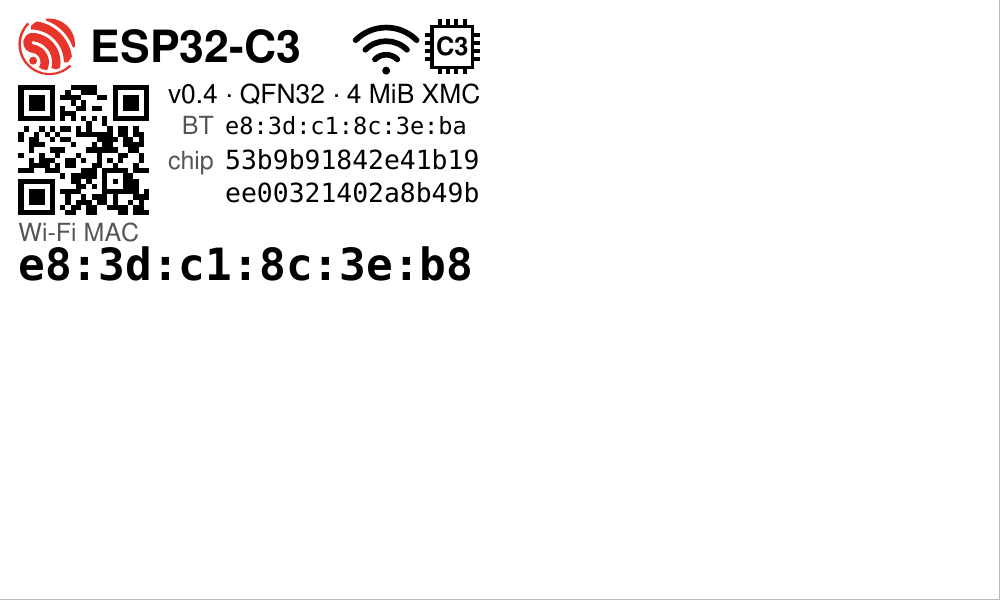
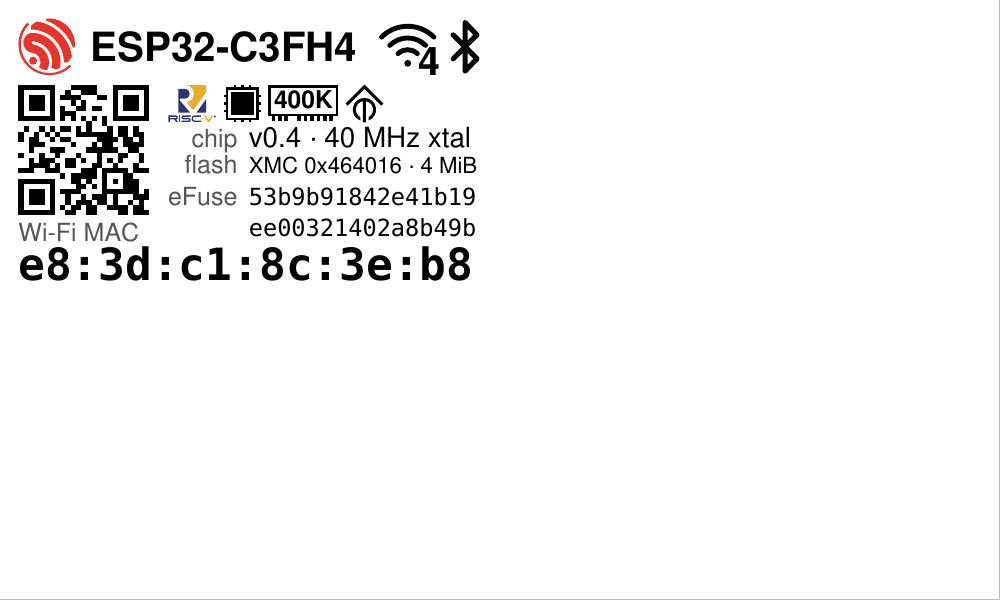
docs: the ESP32 labels' layout, real stickers and a sheet of samples
The real stickers are re-rendered from tests/esp32_devices.json, which
a fresh read of all five boards on 2026-09-27 reproduces label for
label. esp32-parts.png is one label per part in the table, synthetic
(02:... MACs, revision v9.9) under a banner that says so.

Claude-Session: https://claude.ai/code/session_01PBYpeR32kHxmN65GqkGhJx

Changed region(s): [[0.093, 0.03, 0.496, 0.39]]

diff --git a/docs/examples/render_esp32.py b/docs/examples/render_esp32.py
@@ -1,13 +1,20 @@
 #!/usr/bin/env python3
-"""Regenerate the ESP32 micro-label examples from real reads.
+"""Regenerate the ESP32 micro-label examples.
 
     uv run docs/examples/render_esp32.py
 
-The records are tests/esp32_devices.json: what `rpi-hwid collect
---esp32-read` wrote on 2026-09-26 for the three ESP32-C3 SuperMinis on
-rpi5-433mhz and the ESP32-CAM and devkit on rpi4-esp. Five labels make two
-stickers, four and one; each is cut out of the rendered sheet by the label
-grid at 400 dpi, as render_micro.py does. Needs pdftoppm (poppler-utils).
+Two sets, both cut out of the sheet `rpi-hwid labels` prints, by the label
+grid (needs pdftoppm, from poppler-utils):
+
+  esp32-sticker-1.png, -2.png  the real boards, from tests/esp32_devices.json:
+                               what `rpi-hwid collect --esp32-read` wrote for
+                               the three ESP32-C3 SuperMinis on rpi5-433mhz
+                               and the ESP32-CAM and devkit on rpi4-esp.
+                               Five labels make two stickers, four and one.
+  esp32-parts.png              one SAMPLE label for every part in
+                               rpi_hwid.espressif's table, with synthetic
+                               data (locally administered 02:... MACs,
+                               revision v9.9), under a banner saying so.
 """
 
 from __future__ import annotations
@@ -18,44 +25,74 @@ import sys
 import tempfile
 from pathlib import Path
 
-from PIL import Image
+from PIL import Image, ImageDraw, ImageFont
 
 HERE = Path(__file__).resolve().parent
 sys.path.insert(0, str(HERE.parent.parent / "tests"))
 
 import conftest  # noqa: E402
-from rpi_hwid import esp32_micro, labels, micro  # noqa: E402
+from rpi_hwid import esp32_micro, espressif, labels, micro  # noqa: E402
 from rpi_hwid.model import ProbeDocument  # noqa: E402
 
-DPI = 400
-PX = DPI / 72.0
+
+def page_png(ls: list[micro.MicroLabel], dpi: int, tmp: str) -> Image.Image:
+    pdf = Path(tmp) / "sheet.pdf"
+    micro.render_micro(ls, pdf, outline=True)
+    subprocess.run(["pdftoppm", "-r", str(dpi), "-png", "-f", "1", "-l", "1", str(pdf),
+                    tmp + "/page"], check=True)
+    (png,) = sorted(Path(tmp).glob("page*.png"))
+    return Image.open(png)
 
 
-def main() -> None:
-    real = json.loads((HERE.parent.parent / "tests" / "esp32_devices.json").read_text())
+def sticker_box(i: int, page: Image.Image, px: float) -> tuple[int, int, int, int]:
+    x, y = labels.label_origin(i)
+    left = round(x * px)
+    top = round(page.height - y * px - labels.LABEL_H * px)
+    return left, top, left + round(labels.LABEL_W * px), top + round(labels.LABEL_H * px)
+
+
+def real() -> None:
+    dpi = 400
+    data = json.loads((HERE.parent.parent / "tests" / "esp32_devices.json").read_text())
     docs = {}
-    for host, devices in real.items():
+    for host, devices in data.items():
         raw = json.loads(json.dumps(conftest.RAW["rpi5-netv2"]))
         raw["verdict"]["esp32"] = devices
         docs[host] = ProbeDocument.from_dict(host, raw)
     ls = esp32_micro.micro_labels(docs)
-    pdf = HERE / "esp32.pdf"
-    micro.render_micro(ls, pdf, outline=True)
-    box_w, box_h = round(labels.LABEL_W * PX), round(labels.LABEL_H * PX)
     with tempfile.TemporaryDirectory(dir=HERE) as tmp:
-        subprocess.run(["pdftoppm", "-r", str(DPI), "-png", "-f", "1", "-l", "1", str(pdf),
-                        tmp + "/page"], check=True)
-        (png,) = sorted(Path(tmp).glob("page*.png"))
-        page = Image.open(png)
+        page = page_png(ls, dpi, tmp)
         for i in range(len(micro.pack(ls))):
-            x, y = labels.label_origin(i)
-            left = round(x * PX)
-            top = round(page.height - y * PX - labels.LABEL_H * PX)
             name = f"esp32-sticker-{i + 1}.png"
-            page.crop((left, top, left + box_w, top + box_h)).save(HERE / name)
-            print(f"{name}, {box_w} x {box_h}")
-    pdf.unlink()
+            crop = page.crop(sticker_box(i, page, dpi / 72.0))
+            crop.save(HERE / name)
+            print(f"{name}, {crop.width} x {crop.height}")
+
+
+def parts() -> None:
+    dpi = 300
+    ls = [esp32_micro.sample_label(p, i + 1) for i, p in enumerate(espressif.PARTS)]
+    stickers = len(micro.pack(ls))
+    with tempfile.TemporaryDirectory(dir=HERE) as tmp:
+        page = page_png(ls, dpi, tmp)
+    px = dpi / 72.0
+    first, last = sticker_box(0, page, px), sticker_box(stickers - 1, page, px)
+    right = sticker_box(min(stickers, labels.COLS) - 1, page, px)[2]
+    sheet = page.crop((first[0], first[1], right, last[3]))
+    banner = 90
+    out = Image.new("RGB", (sheet.width, sheet.height + banner), "white")
+    out.paste(sheet, (0, banner))
+    draw = ImageDraw.Draw(out)
+    try:
+        font = ImageFont.truetype("DejaVuSans-Bold.ttf", 32)
+    except OSError:
+        font = ImageFont.load_default()
+    draw.text((20, 22), f"SAMPLE LABELS: synthetic data, one per part in "
+                        f"rpi_hwid.espressif ({len(ls)})", fill="black", font=font)
+    out.save(HERE / "esp32-parts.png", optimize=True)
+    print(f"esp32-parts.png, {out.width} x {out.height}, {len(ls)} labels")
 
 
 if __name__ == "__main__":
-    main()
+    real()
+    parts()

diff --git a/docs/LABELS.md b/docs/LABELS.md
@@ -316,8 +316,26 @@ there at 4 pt or more is refused when the label is made, rather than
 shrunk. The
 primary identifier is a QR on the left and, again, the largest thing on the
 label, in monospace along the whole foot. Beside the QR are a subtitle and up
-to three captioned rows, and under the rows is room for a section the caller
-draws itself.
+to four captioned rows (the last runs down beside the foot's caption, whose
+line is otherwise empty there), and under the rows is room for a section the
+caller draws itself.
+
+In place of the subtitle a label may carry a **spec strip**: a row of glyphs
+heading the band beside the QR, for what the device *is* rather than which
+one it is. The strip's glyphs are registered like the header's:
+
+| glyph | draws |
+|---|---|
+| `Icon("riscv")` | the RISC-V logo, RISC-V International's own file |
+| `Icon("xtensa")` | "Xtensa" set as a wordmark (Cadence publishes no logo for it) |
+| `Icon("cores", "2+1")` | a die with a filled square per core, and a small one for a low-power core |
+| `Icon("memory", "512K+8M")` | a memory module with its size lettered on it |
+| `Icon("tasmota")` | the Tasmota symbol, from the Tasmota repository |
+| `Icon("bluetooth")` | the Bluetooth rune |
+| `Icon("mesh")` | four linked nodes: an IEEE 802.15.4 (Thread, Zigbee) radio |
+| `Icon("wifi", "6")` | the Wi-Fi arcs with the generation in the corner they leave |
+
+A strip too wide for the band is refused when the label is made.
 
 The same rules apply as on every other label. A micro label with no
 identifier raises when it is constructed, naming the host (and the command
@@ -349,38 +367,67 @@ render_micro([MicroLabel(
 ## ESP32s
 
 Each ESP32 that `rpi-hwid esp32 --read` has read gets a micro label (`--only
-esp32`), laid out like this:
+esp32`), and so does an ESP8266EX or ESP8285, the chip in most Tasmota
+plugs, which esptool reads the same way. Every label has the same parts in
+the same places:
 
-- **Header:** the Espressif mark and the chip as the title, with the Wi-Fi arcs
-  and a chip glyph lettered with the family (`C3`, or `32` for an original ESP32).
-- **Subtitle:** the silicon revision and package, then the in-package flash or
-  the crystal.
-- **Foot and QR:** the base MAC, burned into eFuse, which is also the Wi-Fi
-  station MAC.
-- **BT row:** the Bluetooth MAC, which is the one derived value on the label.
-  ESP-IDF's default for a chip with four universal MACs is base+2 on the last
-  octet, so the row is printed only for the families that table covers.
-- **Second identifier:** where the chip has one in eFuse, its 128-bit
-  `OPTIONAL_UNIQUE_ID`, over two rows. Otherwise, the external flash and the
-  flash's own unique id.
+- **Header:** the Espressif mark, then the part number, which is always
+  printed whole: `ESP32-D0WD-V3`, or `ESP32-C3FH4`, where esptool names the
+  die and the chip's eFuse the flash in its package (see
+  [ESPRESSIF.md](ESPRESSIF.md#which-part-a-read-names)). Then the part's
+  radios: Wi-Fi with its generation (4 or 6), Bluetooth, and the 802.15.4
+  mesh on a C5, C6 or H2.
+- **Spec strip:** what every chip of that part is, from the table in
+  `rpi_hwid.espressif` ([ESPRESSIF.md](ESPRESSIF.md), every value cited): the
+  ISA (the RISC-V logo, or the Xtensa wordmark), the cores (the ULP or LP
+  core small), the on-chip SRAM with any PSRAM in the package (`512K+8M`),
+  and the Tasmota symbol where Tasmota ships a binary for the part.
+- **Rows,** read from this chip, always in this order:
+  - `chip`: the silicon revision and the crystal. An ESP8266 reports no
+    revision, so its row is the crystal alone.
+  - `flash`: the flash's part where its JEDEC id names one (`GD25Q32x`), else
+    its vendor and JEDEC id (`Boya 0x684016`); then its size. In the package
+    or beside it, the flash is on this row.
+  - `uid`: the flash's own unique id, 64 bits on one row or 128 over two.
+    Where the flash gives none, `eFuse` and the chip's 128-bit
+    `OPTIONAL_UNIQUE_ID` over two rows stand in its place. A chip with
+    neither has no uid rows.
+- **Foot and QR:** the base MAC, burned into eFuse: the Wi-Fi station MAC,
+  or on an H2, which has no Wi-Fi, the MAC.
+
+A fact that does not apply leaves its place empty rather than moving another
+into it. One serial is printed beyond the MAC, not two: two 128-bit serials do
+not fit a quarter sticker, and since the MAC already identifies the chip's die,
+the flash's id, which names a second part, comes first. Both stay in the
+collected document. Nothing on the label is derived; the Bluetooth MAC, which
+ESP-IDF derives as base+2, is not printed.
 
 <p>
-<img src="https://raw.githubusercontent.com/mithro/rpi-hwid/main/docs/examples/esp32-sticker-1.png" alt="Four ESP32 micro labels from real reads: an ESP32-CAM and a devkit (original ESP32s, keyed on their flash's unique id) over two ESP32-C3 SuperMinis (keyed on the chip's OPTIONAL_UNIQUE_ID)" width="98%">
+<img src="https://raw.githubusercontent.com/mithro/rpi-hwid/main/docs/examples/esp32-sticker-1.png" alt="Four ESP32 micro labels from real reads: an ESP32-CAM (ESP32-D0WD-V3) and a devkit (ESP32-D0WDQ6), Xtensa, over two ESP32-C3FH4 SuperMinis, RISC-V" width="98%">
 </p>
 
-These are real reads from 2026-09-26, from `tests/esp32_devices.json`: an
-ESP32-CAM and a devkit on rpi4-esp, and two of the three C3 radio nodes on
-rpi5-433mhz. `docs/examples/render_esp32.py` regenerates them. The C3s'
-in-package XMC flash answers Read Unique ID with zeroes, which is why their
-second identifier is the chip's own; a flash uid that reads back blank is left
-off rather than printed. What is *not* read is refused, as on every other label:
+These are real reads, from `tests/esp32_devices.json`: an ESP32-CAM and a
+devkit on rpi4-esp, and two of the three C3 radio nodes on rpi5-433mhz. The
+C3s' in-package XMC flash read back its unique id as zeroes, so their uid rows
+carry the chip's eFuse id. `docs/examples/render_esp32.py` regenerates them,
+and a sheet of synthetic samples, one for every part in the table:
+
+<p>
+<img src="https://raw.githubusercontent.com/mithro/rpi-hwid/main/docs/examples/esp32-parts.png" alt="Sample ESP32 micro labels with synthetic data, one for every part in rpi_hwid.espressif" width="98%">
+</p>
+
+What is *not* read is refused, as on every other label:
 
 - An ESP32 known only from the USB tree (a MAC and nothing else) is an error.
-- So is a C3 whose eFuse read failed.
+- So is a chip whose eFuse holds a unique id that was not read.
 
 Either error names the host, the MAC and both ways to read it: `rpi-hwid esp32
 --read PORT` on the host, or `rpi-hwid collect --esp32-read HOST=PORT`. Both
-reset the chip.
+reset the chip. A chip the table has no row for is an error too
+(`espressif.UnknownPartError`, naming the host, the MAC and the chip). The
+chip model is not an identifier, but a label without its spec strip would
+break the layout every other ESP32 label keeps, and the fix is one row in the
+table with its source.
 
 For a label that builds on this one (an ESP32 with a 433 MHz radio, say),
 `esp32_micro.esp32_label(host, device)` returns the plain `MicroLabel` for
